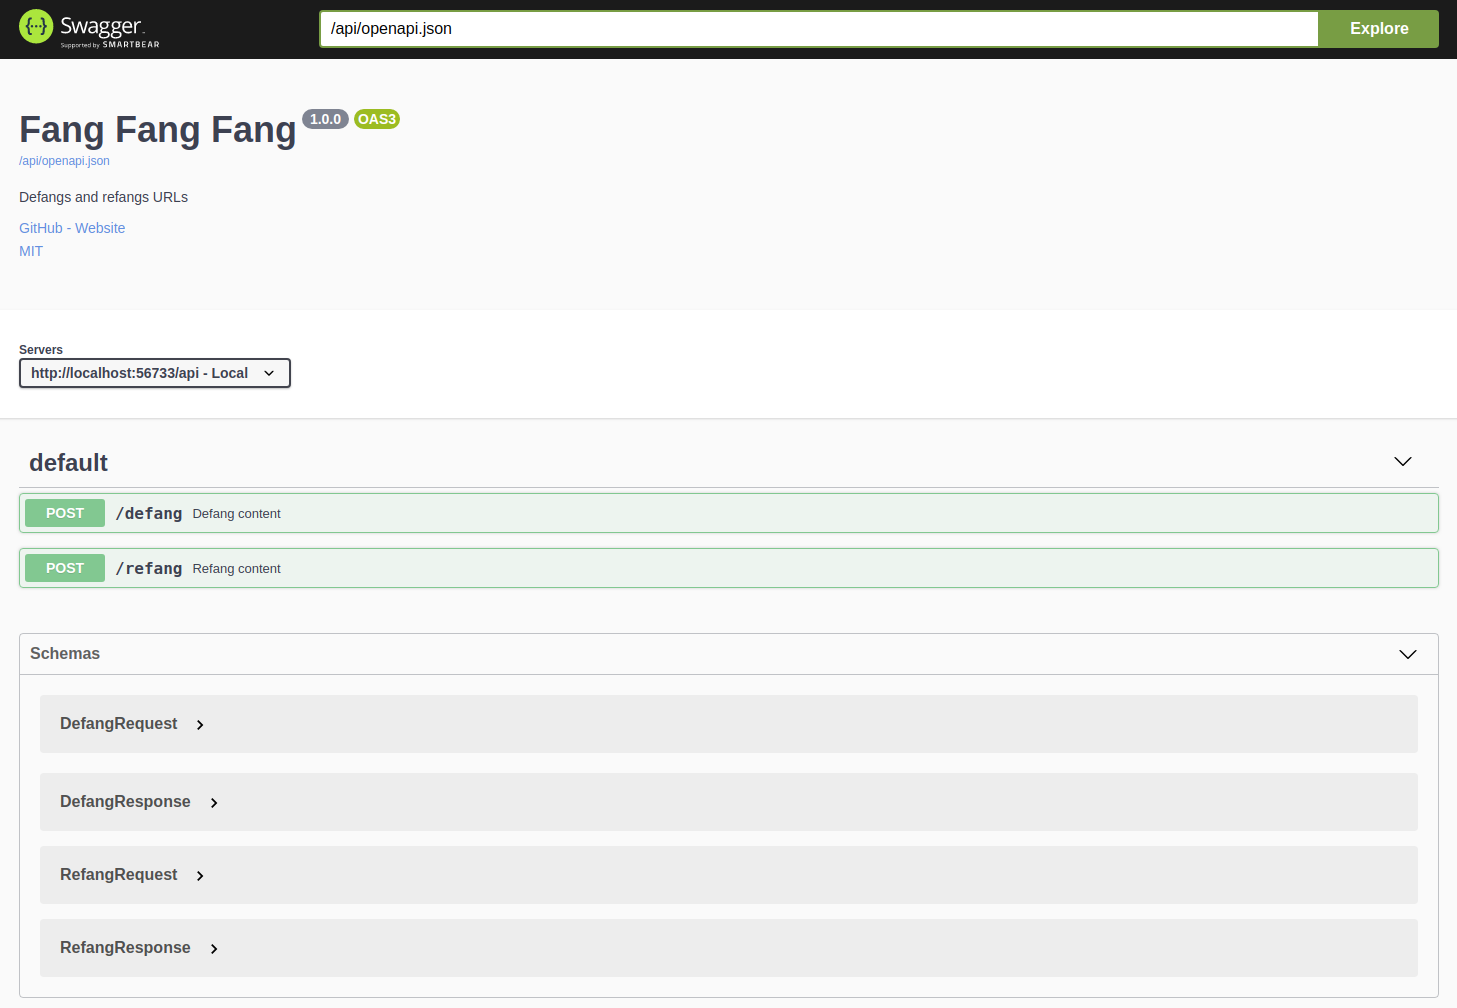
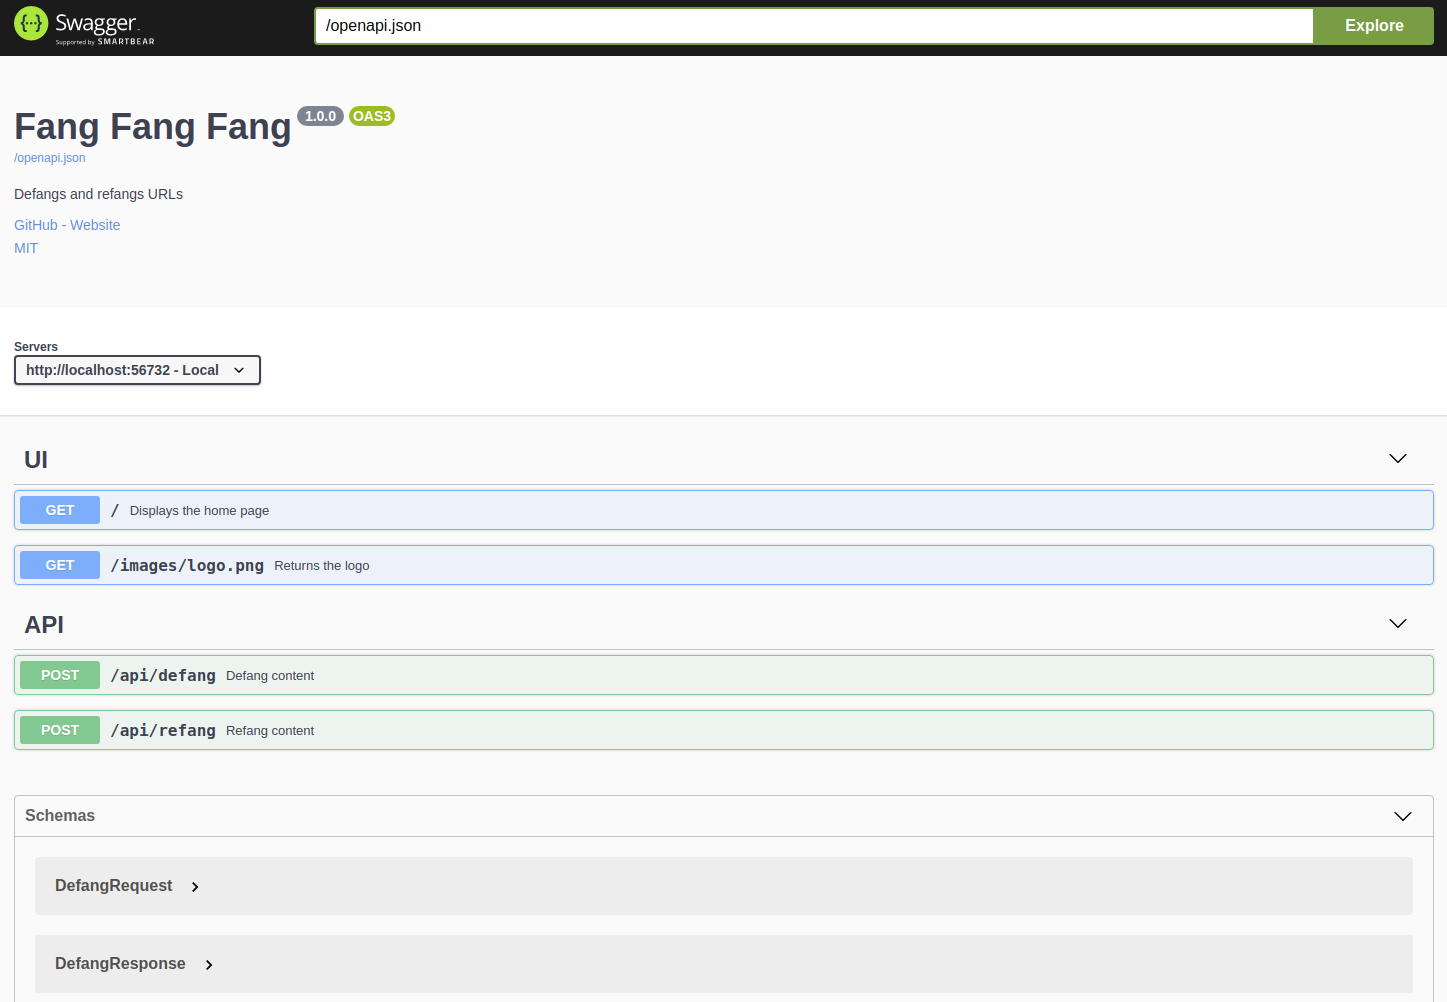
Got static files to work

diff --git a/fangfangfang/controllers/api_controller.py b/fangfangfang/controllers/api_controller.py
@@ -9,7 +9,7 @@ from fangfangfang.models.defang_request import DefangRequest  # noqa: E501
 from fangfangfang.models.defang_response import DefangResponse  # noqa: E501
 from fangfangfang.models.refang_request import RefangRequest  # noqa: E501
 from fangfangfang.models.refang_response import RefangResponse  # noqa: E501
-from fangfangfang.controllers.impl import default_controller_impl
+from fangfangfang.controllers.impl import api_controller_impl
 
 
 def defang(body):  # noqa: E501
@@ -24,7 +24,7 @@ def defang(body):  # noqa: E501
     """
     if connexion.request.is_json:
         body = DefangRequest.from_dict(connexion.request.get_json())  # noqa: E501
-    return default_controller_impl.defang(body)
+    return api_controller_impl.defang(body)
 
 
 def refang(body):  # noqa: E501
@@ -39,4 +39,4 @@ def refang(body):  # noqa: E501
     """
     if connexion.request.is_json:
         body = RefangRequest.from_dict(connexion.request.get_json())  # noqa: E501
-    return default_controller_impl.refang(body)
+    return api_controller_impl.refang(body)

diff --git a/tests/test_ui_controller.py b/tests/test_ui_controller.py
@@ -1,0 +1,41 @@
+import unittest
+
+from fangfangfang.test import BaseTestCase
+
+
+class TestUIController(BaseTestCase):
+    """UIController integration test stubs
+    """
+
+    def test_index(self):
+        """Test case for index
+
+        Displays the home page
+        """
+        headers = {
+            'Accept': 'text/html',
+        }
+        response = self.client.open(
+            '/',
+            method='GET',
+            headers=headers)
+        self.assert200(response,
+                       'Response body is : ' + response.data.decode('utf-8'))
+
+    def test_logo(self):
+        """Test case for logo
+
+        Returns the logo
+        """
+        headers = {
+            'Accept': 'image/png',
+        }
+        response = self.client.open(
+            '/images/logo.png',
+            method='GET',
+            headers=headers)
+        self.assert200(response)
+
+
+if __name__ == '__main__':
+    unittest.main()

diff --git a/tests/test_api_controller_impl.py b/tests/test_api_controller_impl.py
@@ -3,12 +3,12 @@ from unittest.mock import patch
 from parameterized import parameterized
 from fangfangfang.controllers.impl.models.homoglyph_fang_model\
     import HomoglyphFangModel
-from fangfangfang.controllers.impl.default_controller_impl import defang, refang
+from fangfangfang.controllers.impl.api_controller_impl import defang, refang
 from fangfangfang.models.defang_request import DefangRequest
 from fangfangfang.models.refang_request import RefangRequest
 
 
-class TestDefaultControllerImpl(unittest.TestCase):
+class TestAPIControllerImpl(unittest.TestCase):
 
     @parameterized.expand([
         'test.com',

diff --git a/fangfangfang/controllers/ui_controller.py b/fangfangfang/controllers/ui_controller.py
@@ -1,0 +1,30 @@
+"""NOTE: This file is auto generated by OpenAPI Generator (https://openapi-generator.tech).
+
+Do not edit the file manually.
+"""
+
+import connexion
+
+from fangfangfang.controllers.impl import ui_controller_impl
+
+
+def index():  # noqa: E501
+    """Displays the home page
+
+     # noqa: E501
+
+
+    :rtype: str
+    """
+    return ui_controller_impl.index()
+
+
+def logo():  # noqa: E501
+    """Returns the logo
+
+     # noqa: E501
+
+
+    :rtype: file
+    """
+    return ui_controller_impl.logo()

diff --git a/fangfangfang/controllers/impl/ui_controller_impl.py b/fangfangfang/controllers/impl/ui_controller_impl.py
@@ -1,0 +1,15 @@
+import flask
+import os
+
+__location__ = os.path.realpath(
+    os.path.join(os.getcwd(), os.path.dirname(__file__)))
+__index_location__ = os.path.join(__location__, 'static/index.html')
+__logo_location__ = os.path.join(__location__, 'static/logo.png')
+
+
+def index():
+    return flask.send_file(__index_location__)
+
+
+def logo():
+    return flask.send_file(__logo_location__)

diff --git a/tests/test_api_controller.py b/tests/test_api_controller.py
@@ -12,8 +12,8 @@ from flask import json
 from fangfangfang.test import BaseTestCase
 
 
-class TestDefaultController(BaseTestCase):
-    """DefaultController integration test stubs
+class TestAPIController(BaseTestCase):
+    """APIController integration test stubs
 
     NOTE: This class is auto generated by OpenAPI Generator (https://openapi-generator.tech).
 

diff --git a/tests/test_api_controller_request_validation.py b/tests/test_api_controller_request_validation.py
@@ -4,8 +4,8 @@ import unittest
 from parameterized import parameterized
 
 
-class TestDefaultControllerRequestValidation(BaseTestCase):
-    """DefaultController request validation integration tests
+class TestAPIControllerRequestValidation(BaseTestCase):
+    """APIController request validation integration tests
     """
 
     @parameterized.expand([

diff --git a/README.md b/README.md
@@ -48,7 +48,7 @@ TODO
 fangfangfang also provides API endpoints for defanging or refanging text. You
 can access the API documentation in your browser by navigating to:
 
-[http://localhost:56732/api/ui](http://localhost:56732/api/ui)
+[http://localhost:56732/ui](http://localhost:56732/ui)
 
 If the API docs are working, you should see the following page:
 
@@ -67,7 +67,7 @@ and is defined in [openapi/openapi.yaml](openapi/openapi.yaml).
 
 [openapi-generator](https://github.com/OpenAPITools/openapi-generator) takes the
 OpenAPI spec and auto-generates the [controllers](fangfangfang/controllers),
-[models](fangfangfang/models), and [basic integration tests](tests/test_default_controller.py).
+[models](fangfangfang/models), and [basic integration tests](tests/test_api_controller.py).
 
 To auto-generate the files (requires [Java 8+](https://www.oracle.com/technetwork/java/javase/downloads/jdk8-downloads-2133151.html)):
 
@@ -77,7 +77,7 @@ cd bin
 ```
 
 The auto-generated [controllers](fangfangfang/controllers) call the
-implementation controller modules like [default_controller_impl.py](fangfangfang/controllers/impl/default_controller_impl.py).
+implementation controller modules like [api_controller_impl.py](fangfangfang/controllers/impl/api_controller_impl.py).
 
 [Connexion](https://connexion.readthedocs.io/en/latest/) uses the
 [controllers](fangfangfang/controllers) to serve the REST
